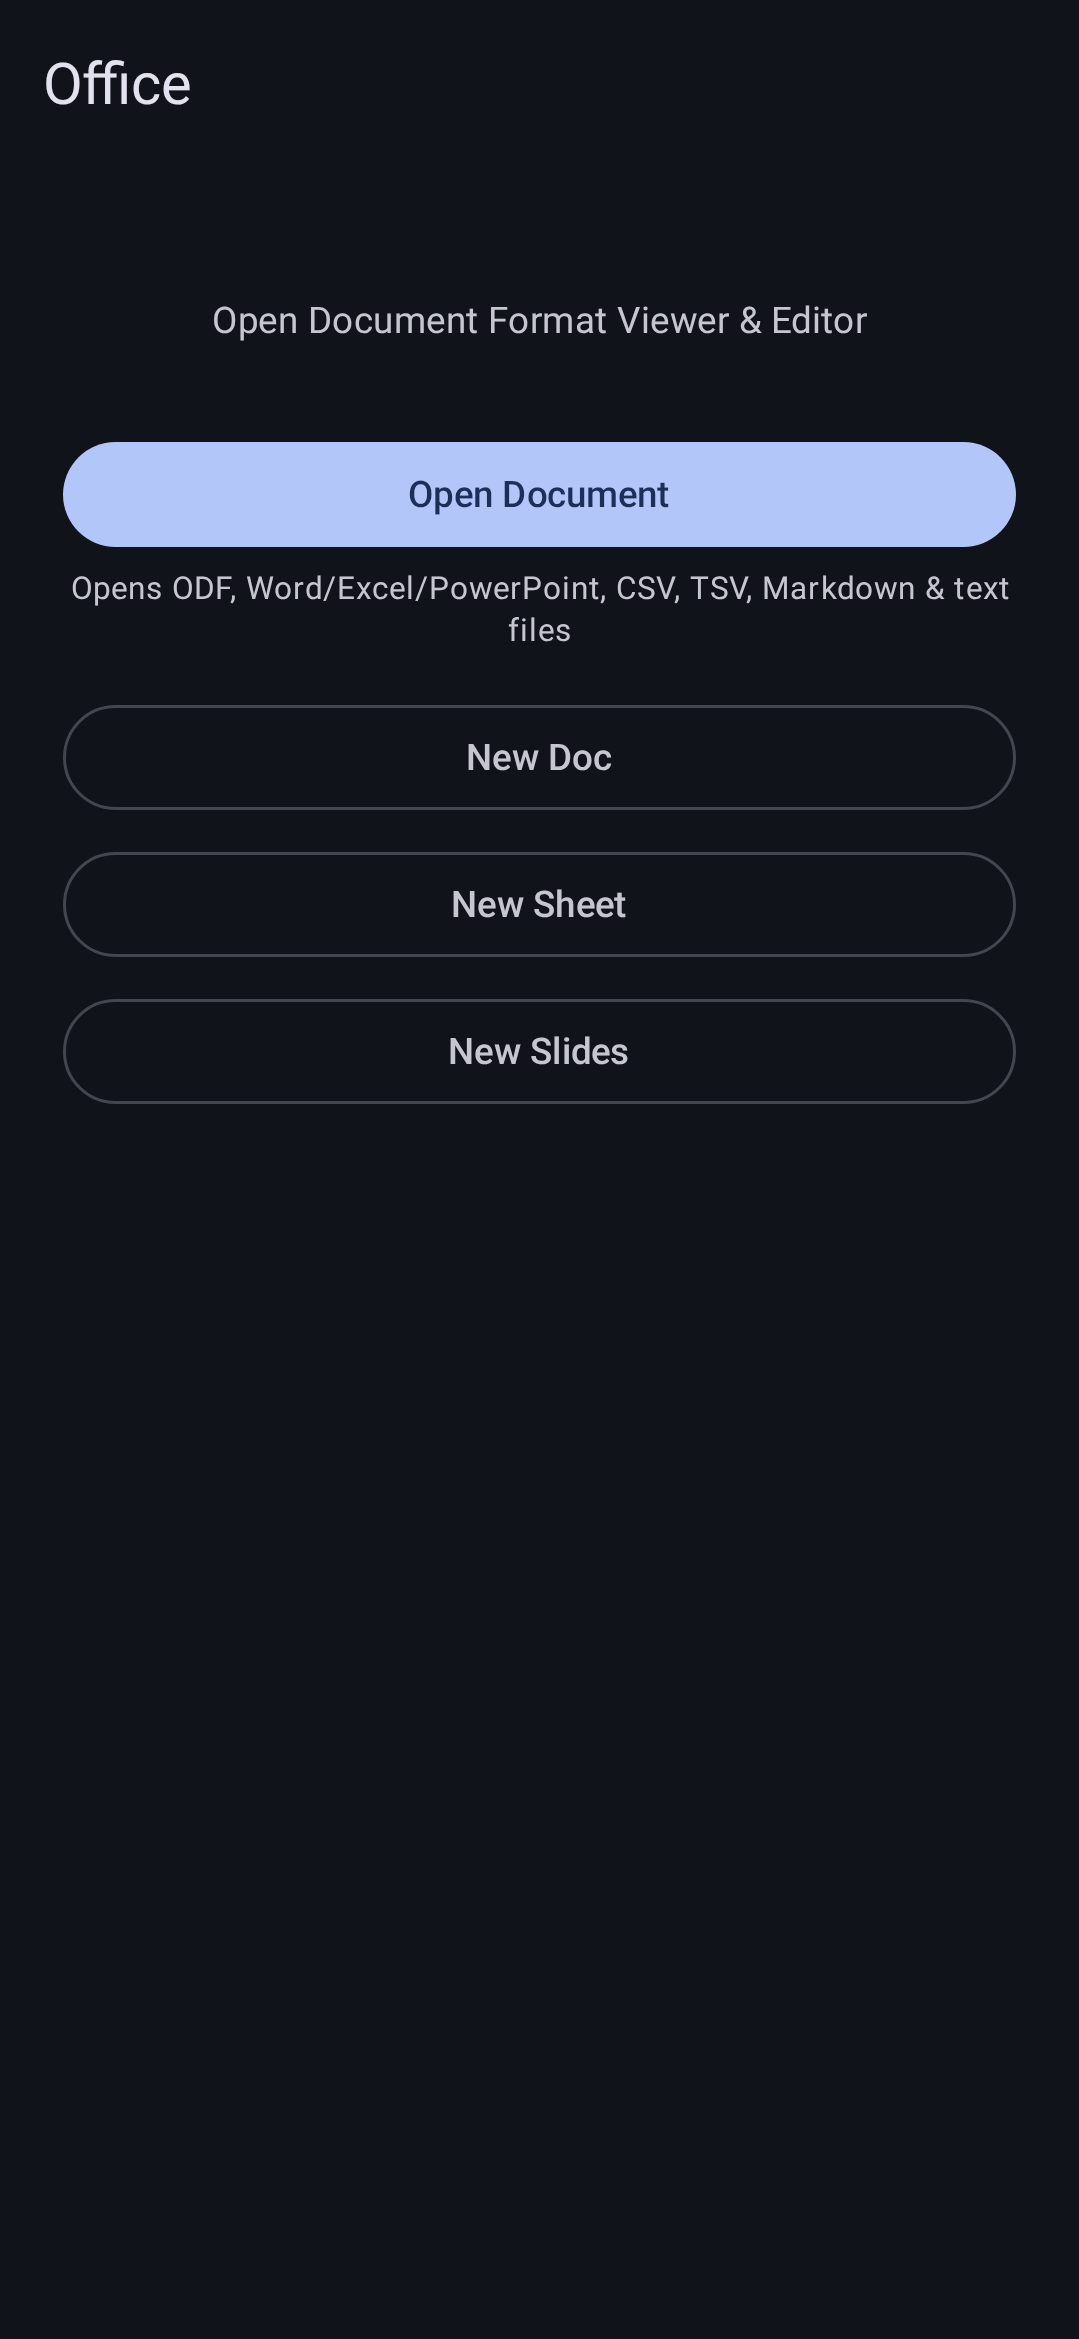
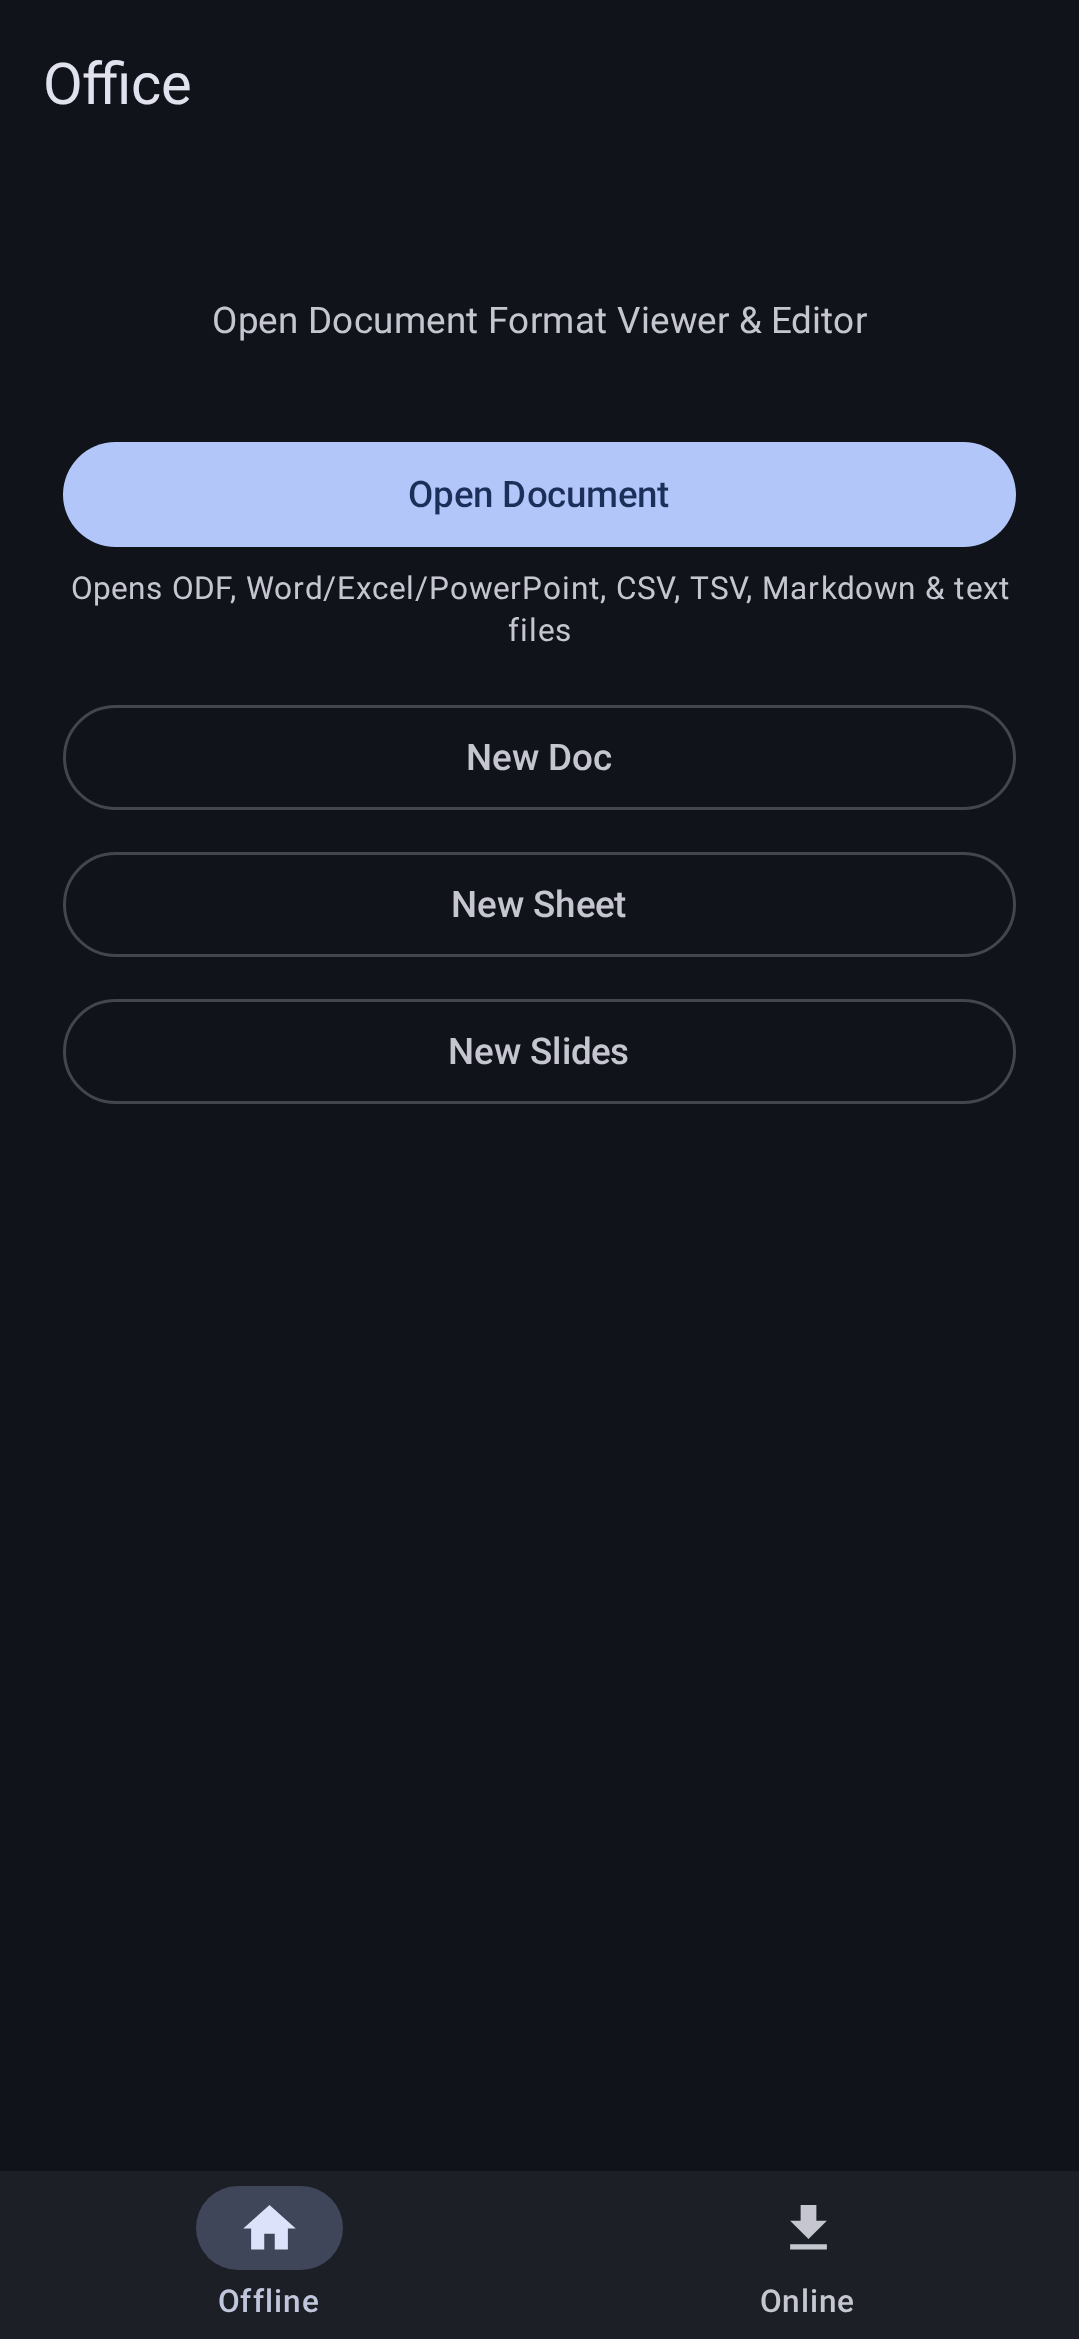
office: preview tab chrome; appstore: fix updates version

Changed region(s): [[0.1835, 0.9363, 0.3364, 0.9987], [0.7034, 0.9363, 0.7952, 0.9987]]

diff --git a/office/src/screenshotTest/kotlin/com/vayunmathur/office/ui/MetadataPreviews.kt b/office/src/screenshotTest/kotlin/com/vayunmathur/office/ui/MetadataPreviews.kt
@@ -1,12 +1,19 @@
 package com.vayunmathur.office.ui
 
+import androidx.compose.foundation.layout.Box
 import androidx.compose.foundation.layout.fillMaxSize
+import androidx.compose.foundation.pager.rememberPagerState
 import androidx.compose.runtime.Composable
 import androidx.compose.ui.Modifier
 import androidx.compose.ui.text.style.TextAlign
 import androidx.compose.ui.tooling.preview.Preview
 import com.android.tools.screenshot.PreviewTest
 import com.vayunmathur.library.ui.DynamicTheme
+import com.vayunmathur.library.ui.IconDownload
+import com.vayunmathur.library.ui.IconHome
+import com.vayunmathur.library.ui.PagerTab
+import com.vayunmathur.library.ui.TabStyle
+import com.vayunmathur.library.ui.TabbedPagerScaffold
 import com.vayunmathur.library.ui.MaterialTheme
 import com.vayunmathur.library.ui.Surface
 import com.vayunmathur.library.ui.odf.OdfCell
@@ -228,9 +235,7 @@ class MetadataPreviews {
     @Preview(name = "4-home", device = PHONE, group = "phone", showSystemUi = true)
     @Composable
     fun Preview4Home() {
-        DynamicTheme(darkTheme = true) {
-            HomeScreen()
-        }
+        ChromePreview()
     }
 
     @PreviewTest
@@ -243,5 +248,26 @@ class MetadataPreviews {
                 document = { TextDocumentView(doc = SampleTextDocument) },
             )
         }
+    }
+}
+
+/**
+ * The app's real tab chrome around the home content: the same [TabbedPagerScaffold]
+ * with the same Offline/Online tabs the home host declares. The Online tab is
+ * ViewModel-coupled, so it shows an empty page (never visible — the shot stays on
+ * Offline); Offline is the real stateless [HomeScreen].
+ */
+@Composable
+private fun ChromePreview() {
+    DynamicTheme(darkTheme = true) {
+        val tabs = listOf(
+            PagerTab("Offline", { IconHome() }) { HomeScreen() },
+            PagerTab("Online", { IconDownload() }) { Box(Modifier.fillMaxSize()) },
+        )
+        TabbedPagerScaffold(
+            tabs = tabs,
+            pagerState = rememberPagerState(initialPage = 0, pageCount = { tabs.size }),
+            tabStyle = TabStyle.BottomNav,
+        )
     }
 }

diff --git a/appstore/src/screenshotTest/kotlin/com/vayunmathur/appstore/ui/MetadataPreviews.kt b/appstore/src/screenshotTest/kotlin/com/vayunmathur/appstore/ui/MetadataPreviews.kt
@@ -228,7 +228,9 @@ private fun SearchContent() {
 private fun UpdatesContent() {
     UpdatesScreen(
         state = UpdatesUiState(
-            updates = listOf(AEGIS),
+            updates = listOf(
+                AEGIS.copy(versionName = "3.4.1", versionCode = 341),
+            ),
             installedIcons = ICONS,
             installedInfos = mapOf(
                 "com.beemdevelopment.aegis" to InstalledInfo(
